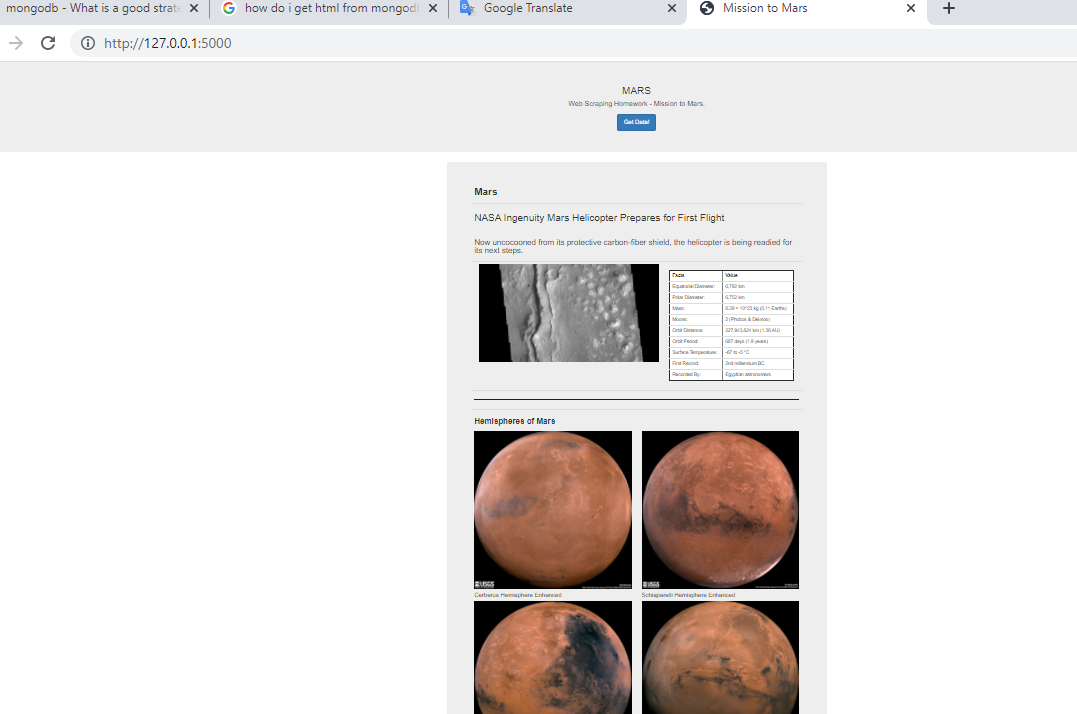
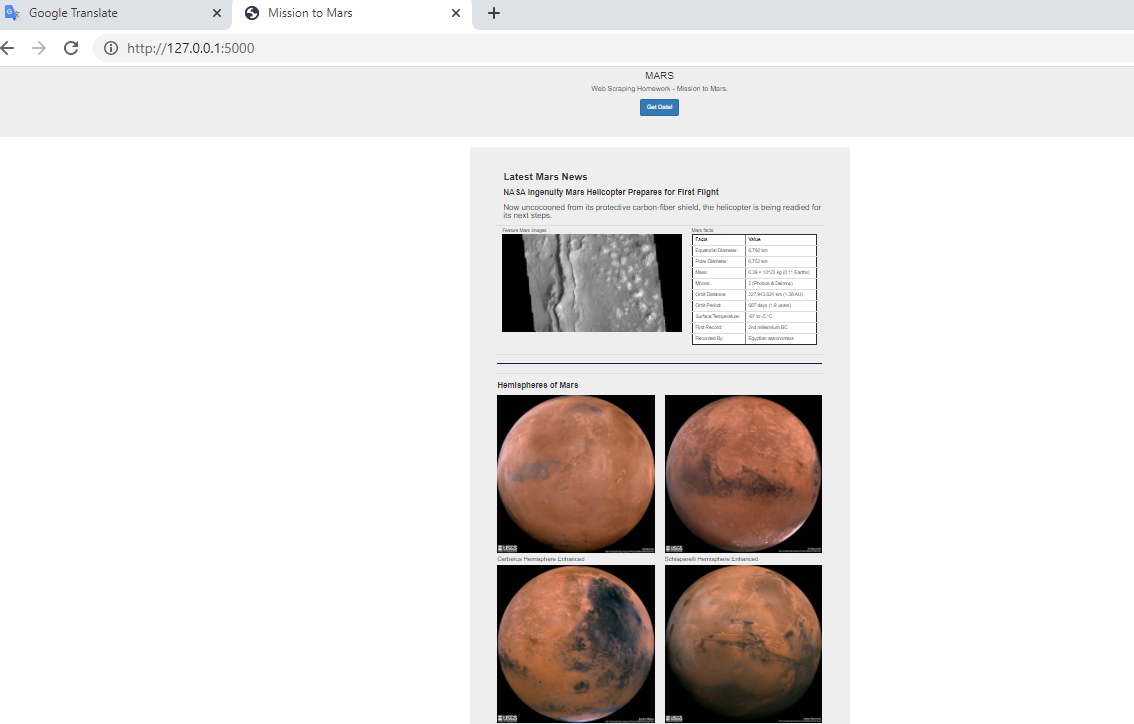
final application Screenshots done

Changed region(s): [[0.429, 0.2157, 0.766, 1.0], [0.0, 0.0, 1.0, 0.0924], [0.5209, 0.0924, 0.6435, 0.1849]]

diff --git a/Missions_to_Mars/templates/index.html b/Missions_to_Mars/templates/index.html
@@ -31,23 +31,21 @@
             <div class="table-responsive1">          
               <table class="table">
                 <thead>
-                    <th>
-                    <h2><b>Mars</b></h2>
+                    <th><td>
+                    <h2><b>Latest Mars News </b></h2>
+                    <h3><b>{{mars.news_title}}</b></h3>
+                    <h3>{{ mars.news_p }}</h3>
+                    </td>
                     </th>
                 </thead>
                 <tbody>
                   <tr>
-                    <td colspan="2">
-                    <h2>{{mars.news_title}}</h2><br>
-                    <h3>{{ mars.news_p }}</h3>
-                    </td>
-                  </tr>
-                  <tr>
                     <td width="100" colspan="2">
                       <div class="col-xs-12 col-sm-8 col-md-7">
+                        Feature Mars Images
                         <img src={{mars.featured_image_url}} width="100%">
                       </div>
-                      <div class="col-xs-12 col-sm-4 col-md-5"> <br>
+                      <div class="col-xs-12 col-sm-4 col-md-5"> Mars facts<br>
                         {{mars.marts_facts | safe}}
                       </div>
                     </td>
